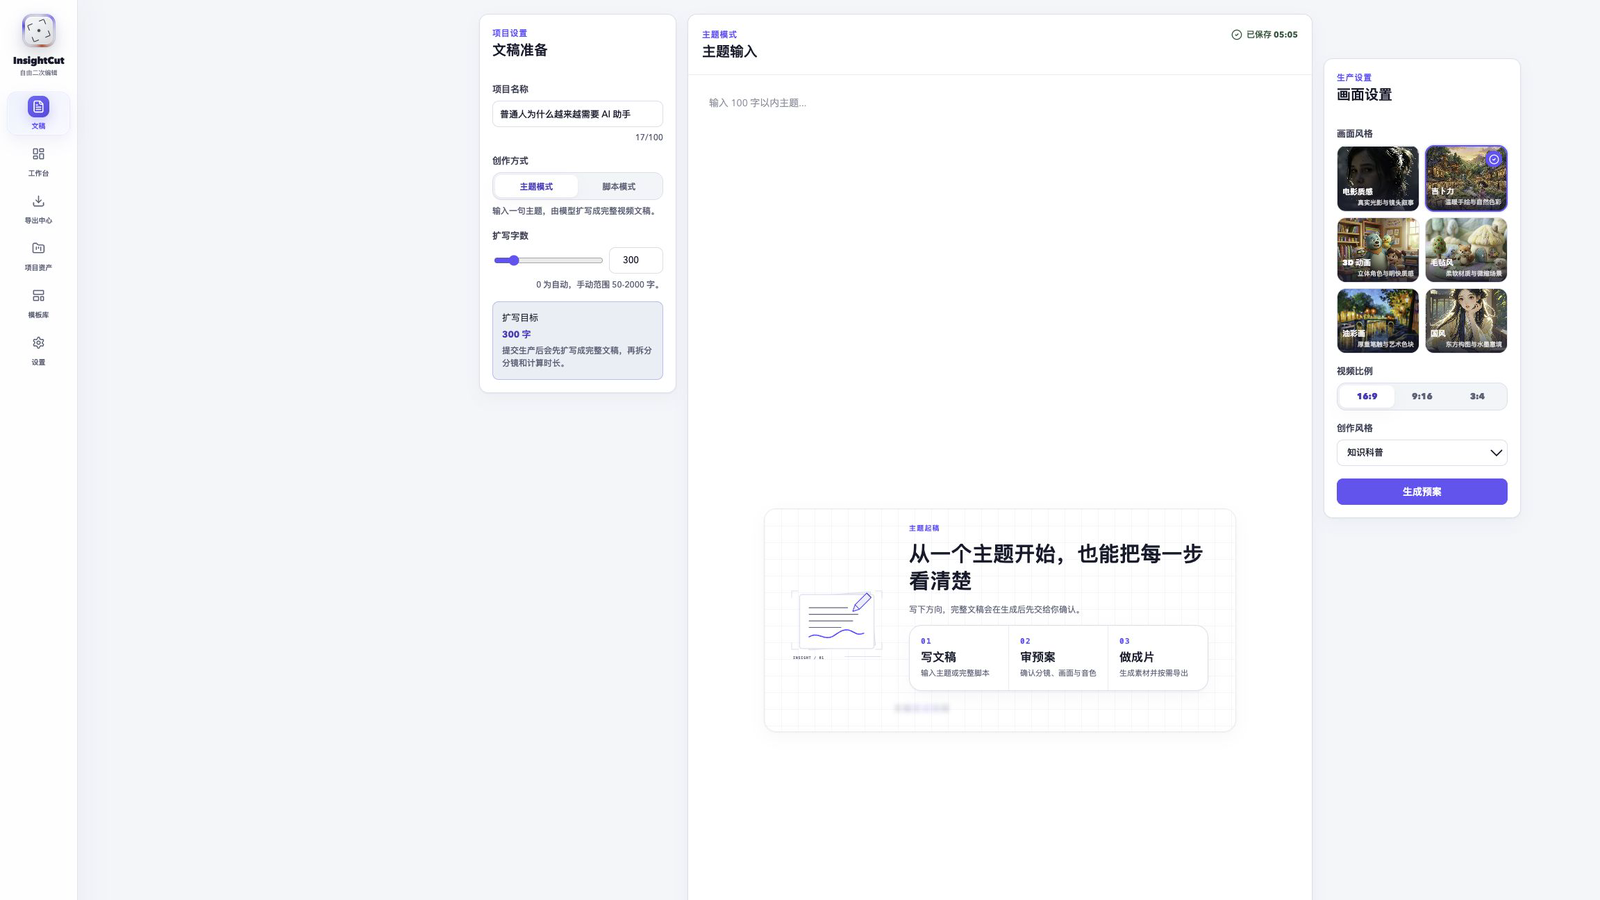
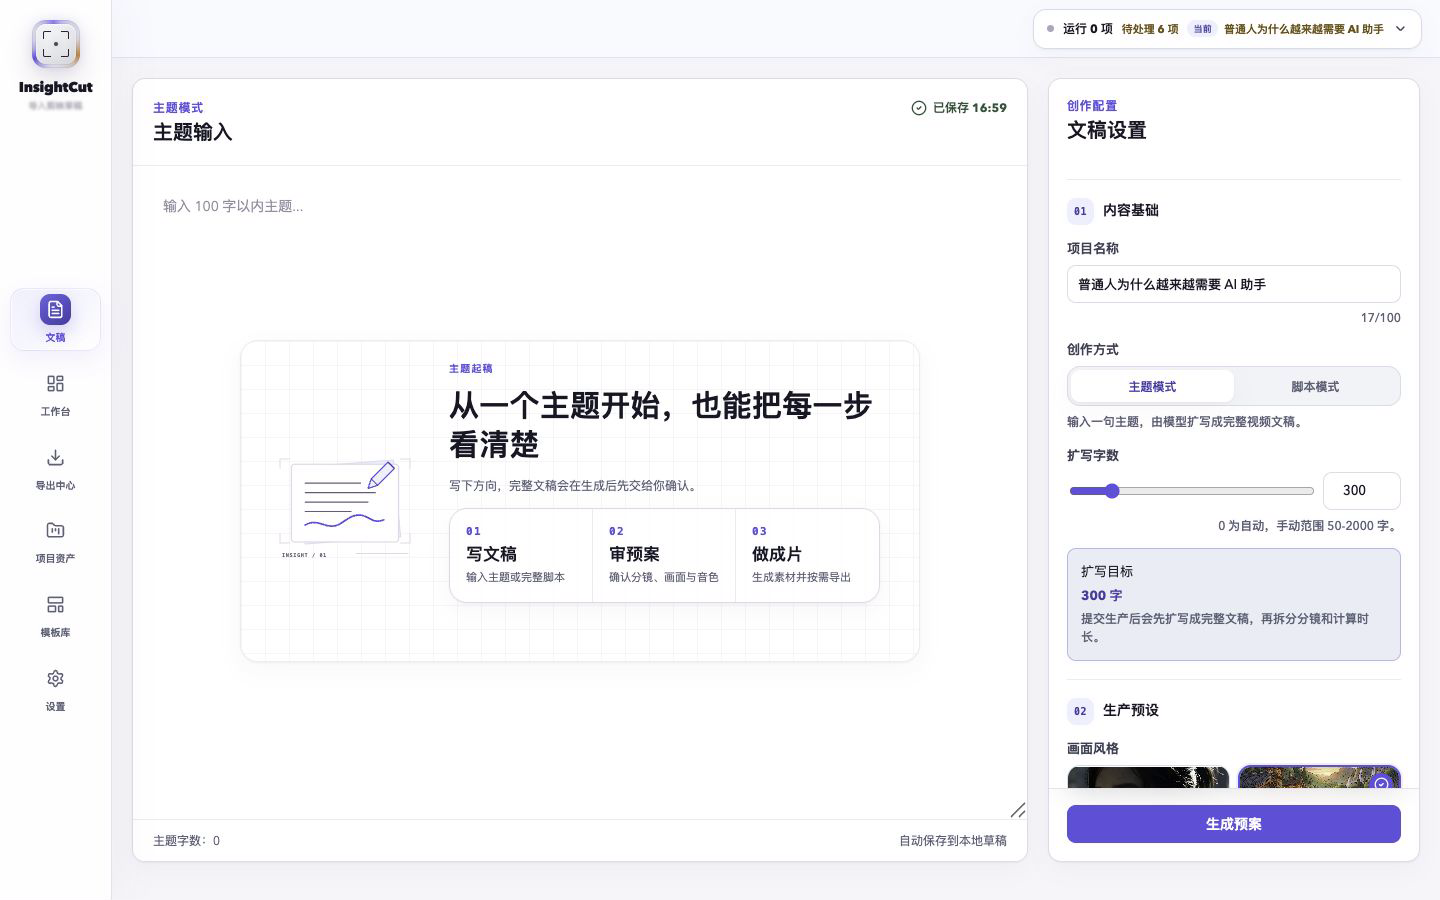
docs: update README for refreshed UI

diff --git a/README.md b/README.md
@@ -52,9 +52,15 @@ https://github.com/user-attachments/assets/e4695fbc-2339-4102-b631-bcf61df63264
 
 ![InsightCut 新版分镜生产工作台与素材版本界面](design-qa-artifacts/readme-workspace.png)
 
-新版界面使用统一的全局创作壳层：左侧可以在文稿、工作台、导出中心、项目资产、模板库和设置之间切换；顶部保留真实的 01–06 生产阶段；中间完成逐段预览；右侧集中处理当前分镜、素材版本、项目素材和全片设置。
+新版界面采用白色工作面、品牌蓝与暖橙状态色，并使用统一的全局创作壳层：左侧可以在文稿、工作台、导出中心、项目资产、模板库和设置之间切换；顶部保留真实的 01–06 生产阶段；中间完成逐段预览；右侧集中处理当前分镜、素材版本、项目素材和全片设置。
 
 图片与配音不会在重新生成时覆盖旧文件。每次生成、重新生成、上传和跨分镜复用都会形成可追溯版本，可以随时查看、试听和恢复；恢复历史版本不会再次调用模型。
+
+### 项目资产库
+
+![InsightCut 项目资产库：项目筛选、状态与真实画面封面](design-qa-artifacts/readme-assets.png)
+
+项目资产库集中展示草稿、生成中、可继续、已完成和失败可恢复的项目，并支持按状态、画面风格和时长筛选。项目卡片使用真实生成画面作为封面，可以直接回到对应项目继续预览、修复或导出。
 
 ## InsightCut 是什么
 
